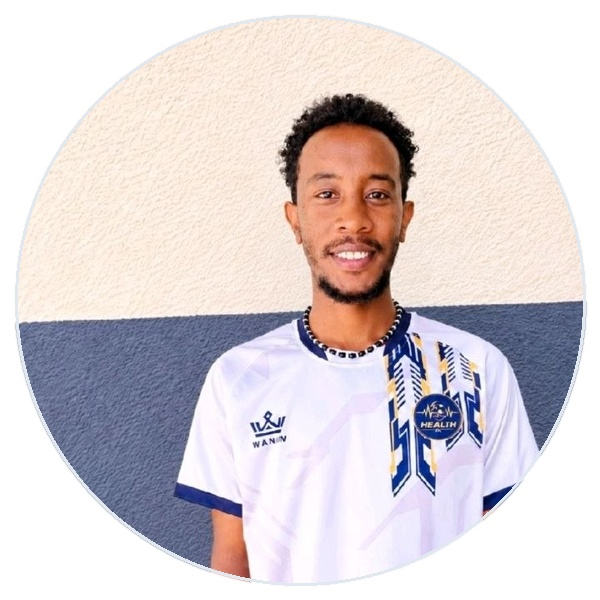
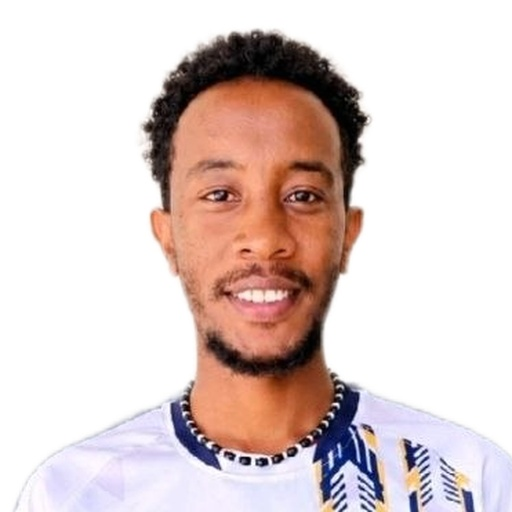
feat(health): update player portraits to clean white background headshots

diff --git a/scripts/process_all_health_portraits.py b/scripts/process_all_health_portraits.py
@@ -1,0 +1,179 @@
+import os
+import shutil
+import numpy as np
+from PIL import Image, ImageOps
+import onnxruntime as ort
+
+MODEL_PATH = "silueta.onnx"
+session = ort.InferenceSession(MODEL_PATH, providers=['CPUExecutionProvider'])
+input_name = session.get_inputs()[0].name
+output_name = session.get_outputs()[0].name
+
+PLAYERS = [
+    ("health-abdulhamid-a", "Abdulmajid.jpg"),
+    ("health-abduselam-k", "Abduselam.jpg"),
+    ("health-ahmed-a", "Ahmed.JPG"),
+    ("health-amanuel-a", "Amanuel.jpg"),
+    ("health-biniyam-w", "Biniyam.jpg"),
+    ("health-eliyas-t", "Eliyas.jpg"),
+    ("health-fejru-m", "Fejru.jpg"),
+    ("health-fitsum-k", "Fitsum.jpg"),
+    ("health-getayawkal-b", "Getayawkal.jpg"),
+    ("health-moses-j", "Moses.jpg"),
+    ("health-muaz-b", "Muaz.jpg"),
+    ("health-naol-s", "Naol .JPG"),
+    ("health-nati-s", "Nati.jpg"),
+    ("health-samuel-t", "Samuel.jpg"),
+    ("health-wondimagegn-g", "Wendimagegn G.jpg"),
+    ("health-wondimu-w", "Wondimu.jpg"),
+]
+
+def predict_mask(img_pil):
+    orig_w, orig_h = img_pil.size
+    img_resized = img_pil.resize((320, 320), Image.BILINEAR)
+    img_arr = np.array(img_resized.convert("RGB"), dtype=np.float32) / 255.0
+    mean = np.array([0.485, 0.456, 0.406], dtype=np.float32)
+    std = np.array([0.229, 0.224, 0.225], dtype=np.float32)
+    norm = (img_arr - mean) / std
+    norm = norm.transpose((2, 0, 1))[np.newaxis, ...]
+    
+    out = session.run([output_name], {input_name: norm})[0][0, 0]
+    out = (out - out.min()) / (out.max() - out.min() + 1e-8)
+    
+    # Soft alpha mask
+    mask_im = Image.fromarray((out * 255).astype(np.uint8), mode='L')
+    mask_im = mask_im.resize((orig_w, orig_h), Image.BILINEAR)
+    return mask_im
+
+def find_headshot_crop(mask_im, orig_w, orig_h):
+    mask = np.array(mask_im) > 100
+    rows = np.where(mask.any(axis=1))[0]
+    if len(rows) == 0:
+        return 0, 0, orig_w, min(orig_w, orig_h)
+    
+    y_top = int(rows[0])
+    y_bottom = int(rows[-1])
+    person_height = y_bottom - y_top
+    
+    # Analyze row widths & centers for top 65% of the silhouette
+    scan_limit = min(y_top + int(person_height * 0.65), y_bottom)
+    widths = []
+    centers = []
+    for y in range(y_top, scan_limit):
+        cols = np.where(mask[y])[0]
+        if len(cols) > 0:
+            widths.append(cols[-1] - cols[0])
+            centers.append((cols[-1] + cols[0]) / 2.0)
+        else:
+            widths.append(0)
+            centers.append(orig_w / 2.0)
+            
+    widths = np.array(widths, dtype=float)
+    centers = np.array(centers, dtype=float)
+    
+    # Smooth width profile
+    k_len = max(5, int(len(widths) * 0.05))
+    kernel = np.ones(k_len) / k_len
+    smoothed_w = np.convolve(widths, kernel, mode='same')
+    
+    # Find head maximum width (within top 35% of person)
+    head_search_limit = min(len(smoothed_w), int(person_height * 0.35))
+    head_max_idx = np.argmax(smoothed_w[:head_search_limit]) if head_search_limit > 0 else 0
+    head_max_w = smoothed_w[head_max_idx]
+    
+    # Neck search: look after head_max_idx
+    neck_search_start = head_max_idx + max(5, int(person_height * 0.04))
+    neck_search_end = min(len(smoothed_w), neck_search_start + int(person_height * 0.25))
+    
+    if neck_search_end > neck_search_start:
+        neck_slice = smoothed_w[neck_search_start:neck_search_end]
+        neck_min_rel = np.argmin(neck_slice)
+        neck_idx = neck_search_start + neck_min_rel
+        # Collar is just below neck where shoulders start
+        collar_idx = neck_idx + max(5, int(person_height * 0.08))
+    else:
+        collar_idx = int(person_height * 0.32)
+        
+    collar_y = y_top + collar_idx
+    # Estimated head height
+    head_h = collar_y - y_top
+    
+    # Target frame:
+    # Top margin ~ 6% of crop height
+    # Height of crop covers head + neck + upper collar
+    crop_h = int(head_h * 1.35)
+    crop_w = crop_h # 1:1 square
+    
+    crop_top = max(0, y_top - int(crop_h * 0.06))
+    crop_bottom = crop_top + crop_h
+    if crop_bottom > orig_h:
+        crop_bottom = orig_h
+        crop_top = max(0, crop_bottom - crop_h)
+        crop_h = crop_bottom - crop_top
+        crop_w = crop_h
+        
+    # Center X
+    head_center_limit = min(len(centers), int(head_search_limit * 1.2))
+    center_x = np.median(centers[:head_center_limit]) if head_center_limit > 0 else orig_w / 2.0
+    
+    crop_left = int(center_x - crop_w / 2.0)
+    crop_right = crop_left + crop_w
+    
+    if crop_left < 0:
+        crop_right -= crop_left
+        crop_left = 0
+    if crop_right > orig_w:
+        crop_left -= (crop_right - orig_w)
+        crop_right = orig_w
+        if crop_left < 0:
+            crop_left = 0
+            
+    return crop_left, crop_top, crop_right, crop_bottom
+
+def process_player(player_id, raw_filename):
+    input_path = os.path.join("public", "uploads", "players", "health", raw_filename)
+    if not os.path.exists(input_path):
+        print(f"Skipping {player_id}: {input_path} not found")
+        return
+        
+    im = Image.open(input_path)
+    im = ImageOps.exif_transpose(im) # Correct rotation!
+    im = im.convert("RGB")
+    orig_w, orig_h = im.size
+    
+    # 1. Predict segmentation mask
+    mask = predict_mask(im)
+    
+    # 2. Composite onto pure solid white
+    white_bg = Image.new("RGB", (orig_w, orig_h), (255, 255, 255))
+    white_bg.paste(im, (0, 0), mask)
+    
+    # 3. Find tight headshot crop
+    l, t, r, b = find_headshot_crop(mask, orig_w, orig_h)
+    cropped = white_bg.crop((l, t, r, b))
+    
+    # 4. Resize to 512x512 with high quality Lanczos filter
+    final_img = cropped.resize((512, 512), Image.LANCZOS)
+    
+    # 5. Save outputs
+    out_dir_pub = os.path.join("public", "uploads", "players", "health")
+    out_dir_dist = os.path.join("dist", "uploads", "players", "health")
+    os.makedirs(out_dir_pub, exist_ok=True)
+    os.makedirs(out_dir_dist, exist_ok=True)
+    
+    out_pub = os.path.join(out_dir_pub, f"{player_id}.jpg")
+    out_dist = os.path.join(out_dir_dist, f"{player_id}.jpg")
+    
+    final_img.save(out_pub, "JPEG", quality=95, optimize=True)
+    final_img.save(out_dist, "JPEG", quality=95, optimize=True)
+    print(f"Processed {player_id} ({raw_filename}) -> crop {(l, t, r, b)}")
+
+def main():
+    print(f"Starting processing for {len(PLAYERS)} Health players...")
+    for pid, rfile in PLAYERS:
+        process_player(pid, rfile)
+    print("All players processed successfully!")
+
+if __name__ == "__main__":
+    main()
+
